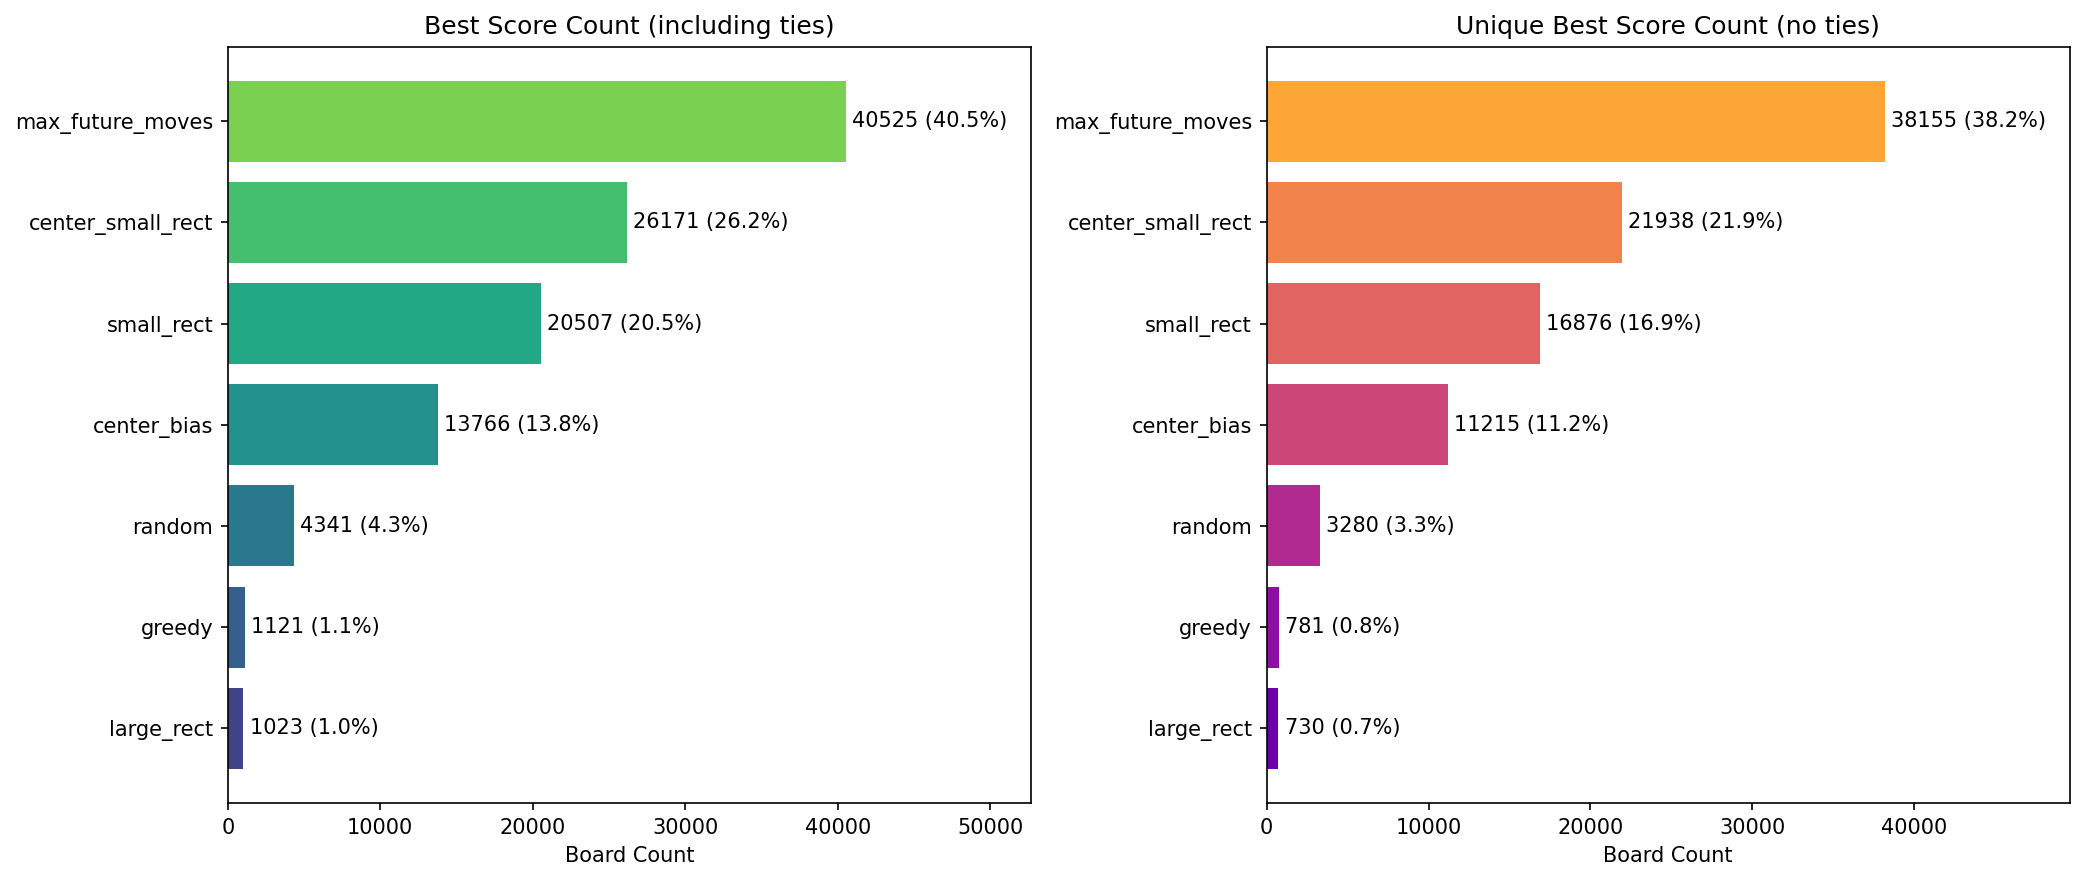
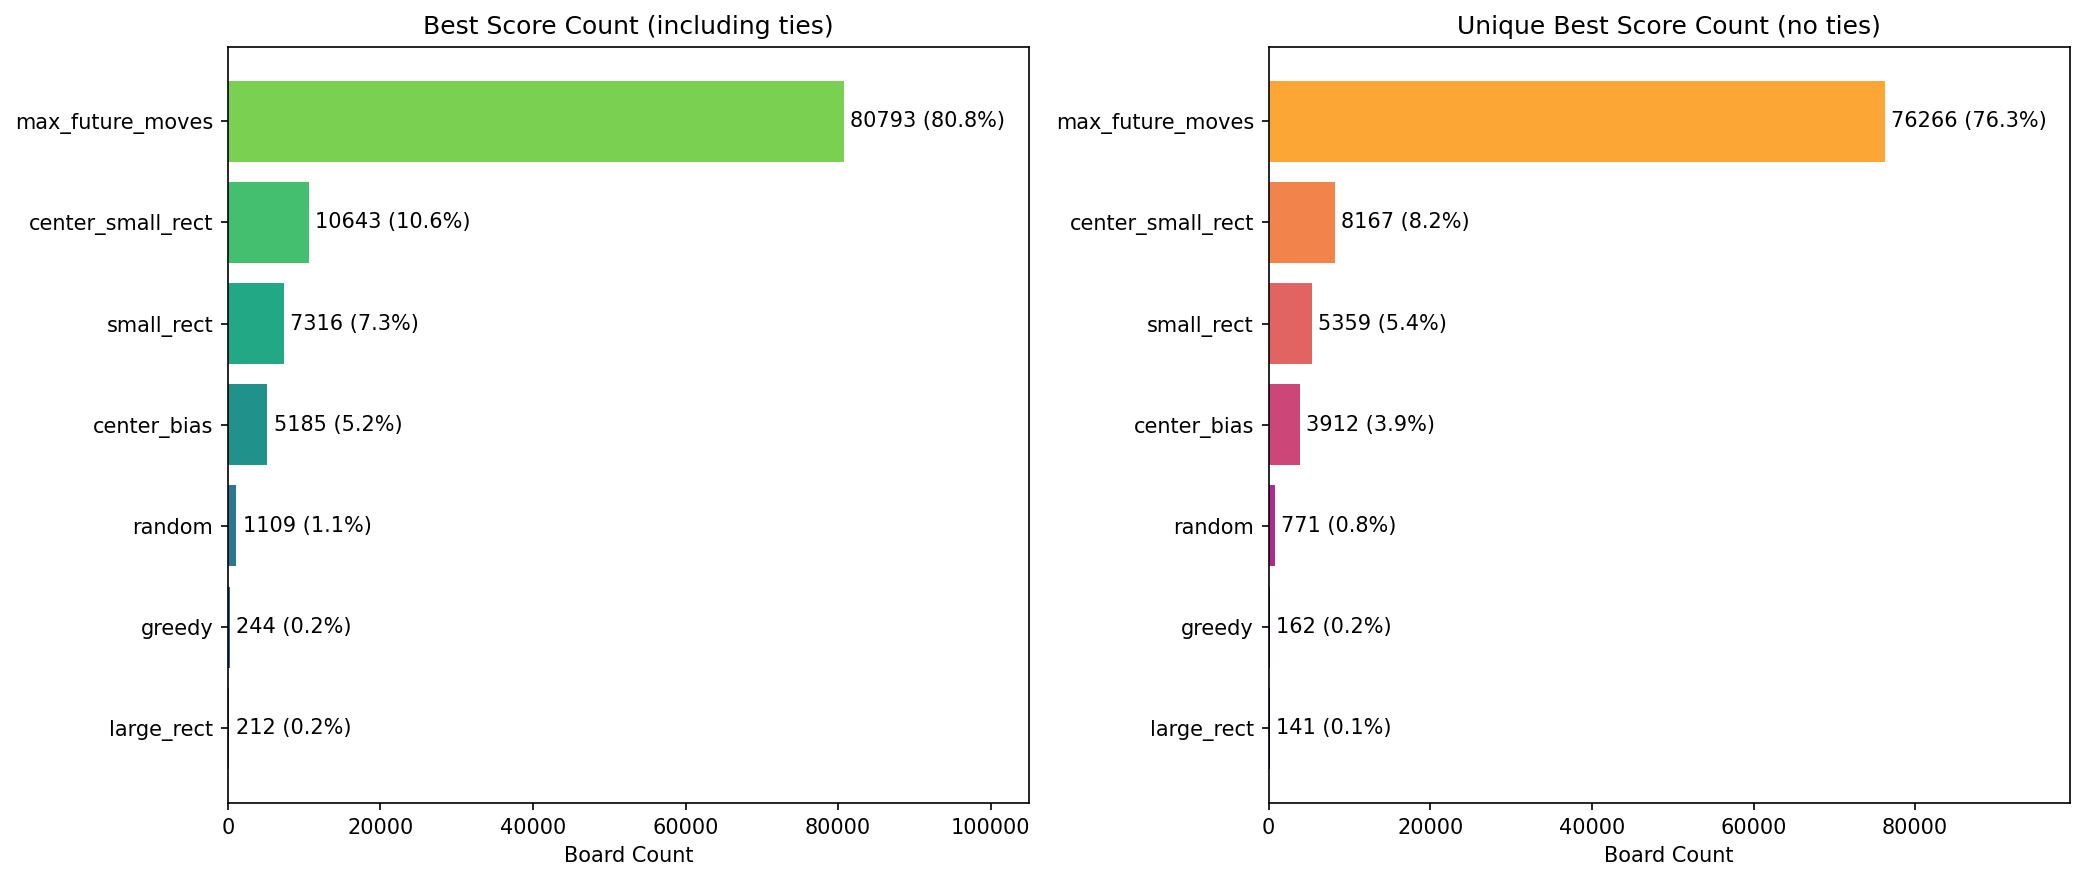
docs: remove PyPI section from README; update benchmark tables and images (100k runs)

diff --git a/README.md b/README.md
@@ -50,7 +50,7 @@ uv run streamlit run app.py
 
 ## Benchmark (strategy comparison)
 
-Batch runs on a fixed set of boards (16×10, target_sum=10). Below: ~100k games per strategy (50k for `max_future_moves`).
+Batch runs on a fixed set of boards (16×10, target_sum=10). Below: 100k games per strategy.
 
 **Summary (avg steps, avg cells removed, time per game):**
 
@@ -62,19 +62,19 @@ Batch runs on a fixed set of boards (16×10, target_sum=10). Below: ~100k games 
 | large_rect | 100,000 | 36.33 | 91.57 | 0.31 |
 | small_rect | 100,000 | 45.77 | 103.44 | 0.39 |
 | center_small_rect | 100,000 | 46.31 | 104.65 | 0.52 |
-| max_future_moves | 50,000 | 50.09 | 113.58 | 8.14 |
+| max_future_moves | 100,000 | 50.07 | 113.54 | 8.12 |
 
 **Best-strategy share** (per game, the strategy that cleared the most cells):
 
 | Strategy | Best count | Share (%) |
 |----------|------------|-----------|
-| max_future_moves | 40,525 | 40.53 |
-| center_small_rect | 26,171 | 26.17 |
-| small_rect | 20,507 | 20.51 |
-| center_bias | 13,766 | 13.77 |
-| random | 4,341 | 4.34 |
-| greedy | 1,121 | 1.12 |
-| large_rect | 1,023 | 1.02 |
+| max_future_moves | 80,793 | 80.79 |
+| center_small_rect | 10,643 | 10.64 |
+| small_rect | 7,316 | 7.32 |
+| center_bias | 5,185 | 5.19 |
+| random | 1,109 | 1.11 |
+| greedy | 244 | 0.24 |
+| large_rect | 212 | 0.21 |
 
 `max_future_moves` clears the most on average and wins most often, at higher per-game cost; `center_small_rect` and `small_rect` offer a good trade-off.
 
@@ -96,13 +96,6 @@ Cumulative average cells removed over games:
 - PyTorch >= 2.0  
 - Gymnasium >= 1.0  
 - NumPy >= 1.24  
-
-## Publishing to PyPI
-
-The repo uses **PyPI Trusted Publishing (OIDC)**; no API token is stored. To trigger a publish:
-
-1. **From a release**: On GitHub, go to **Releases → Create a new release**, choose a tag (e.g. `v0.1.0`), publish. The workflow runs on `release: published`.
-2. **Manual run**: Go to **Actions → Publish to PyPI**, click **Run workflow**, then **Run workflow**. Builds and uploads to PyPI using OIDC.
 
 ## Related projects
 

diff --git a/README.zh-CN.md b/README.zh-CN.md
@@ -50,7 +50,7 @@ uv run streamlit run app.py
 
 ## 基准（策略对比）
 
-在固定棋盘集上批量对局（16×10，target_sum=10）。约 10 万局/策略（`max_future_moves` 为 5 万局）。
+在固定棋盘集上批量对局（16×10，target_sum=10）。每策略 10 万局。
 
 **汇总（平均步数、平均清除格数、单局耗时）：**
 
@@ -62,19 +62,19 @@ uv run streamlit run app.py
 | large_rect | 100,000 | 36.33 | 91.57 | 0.31 |
 | small_rect | 100,000 | 45.77 | 103.44 | 0.39 |
 | center_small_rect | 100,000 | 46.31 | 104.65 | 0.52 |
-| max_future_moves | 50,000 | 50.09 | 113.58 | 8.14 |
+| max_future_moves | 100,000 | 50.07 | 113.54 | 8.12 |
 
 **最佳策略占比**（该局清除格数最多的策略）：
 
 | 策略 | 最佳次数 | 占比 (%) |
 |------|----------|----------|
-| max_future_moves | 40,525 | 40.53 |
-| center_small_rect | 26,171 | 26.17 |
-| small_rect | 20,507 | 20.51 |
-| center_bias | 13,766 | 13.77 |
-| random | 4,341 | 4.34 |
-| greedy | 1,121 | 1.12 |
-| large_rect | 1,023 | 1.02 |
+| max_future_moves | 80,793 | 80.79 |
+| center_small_rect | 10,643 | 10.64 |
+| small_rect | 7,316 | 7.32 |
+| center_bias | 5,185 | 5.19 |
+| random | 1,109 | 1.11 |
+| greedy | 244 | 0.24 |
+| large_rect | 212 | 0.21 |
 
 `max_future_moves` 平均清除最多、胜出局数最多，但单局耗时较高；`center_small_rect`、`small_rect` 在效果与耗时之间较均衡。
 
@@ -96,13 +96,6 @@ uv run streamlit run app.py
 - PyTorch >= 2.0  
 - Gymnasium >= 1.0  
 - NumPy >= 1.24  
-
-## 发布到 PyPI
-
-本仓库使用 **PyPI Trusted Publishing (OIDC)**，无需保存 API Token。触发发布方式：
-
-1. **通过 Release**：在 GitHub 进入 **Releases → Create a new release**，选择或新建标签（如 `v0.1.0`），发布。工作流在 `release: published` 时自动运行。
-2. **手动运行**：进入 **Actions → Publish to PyPI**，点击 **Run workflow** → **Run workflow**。会先构建再通过 OIDC 上传到 PyPI。
 
 ## 相关项目
 
